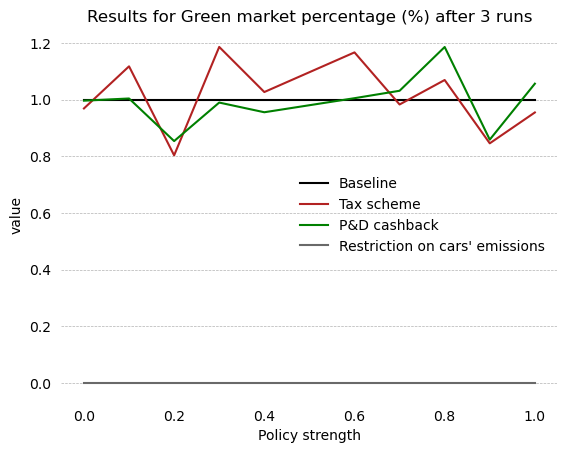
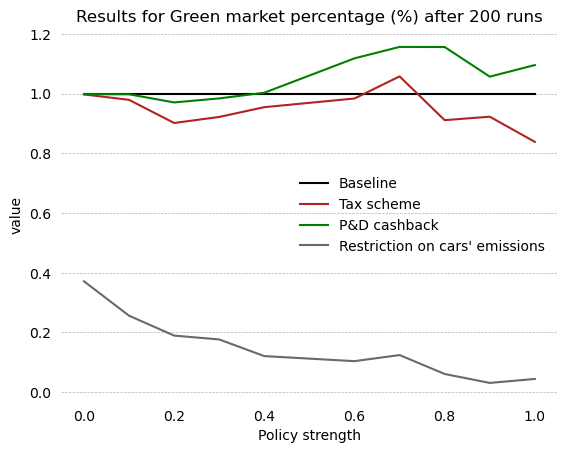
Calibrating e-max

diff --git a/params.py b/params.py
@@ -1,7 +1,8 @@
 """ Exogenous inputs
 """
-import colorama as cor
 import bisect
+
+import colorama as cor
 from numpy import linspace
 
 # Initiating time parameter
@@ -71,7 +72,7 @@ br = {'min': 0, 'max': 1}
 # Fixed e_max
 levels = linspace(0, 1, 10)
 
-e_max = {round(levels[i], 1): round(v, 4) for i, v in enumerate(linspace(1, .25, 10))}
+e_max = {round(levels[i], 1): round(v, 4) for i, v in enumerate(linspace(1, .2, 10))}
 # IPI. Limited to 3%
 tax = {round(levels[i], 1): round(v, 4) for i, v in enumerate(linspace(0, .03, 10))}
 # Cash back P&D for companies' investments. Limited to 12.5%

diff --git a/main.py b/main.py
@@ -180,9 +180,9 @@ def sensitivity(parameter, min_value, max_value, n_intervals, _type, path, times
 if __name__ == '__main__':
     save_summary = True
     save_data = True
-    p = r'output'
+    p = r'\\storage1\carga\modelo dinamico de simulacao\eco_cars'
     t0 = time.time()
-    m = 100
+    m = 200
     # Number of cpus that will run simultaneously
     cpus = 8
     # benchmark(m)
